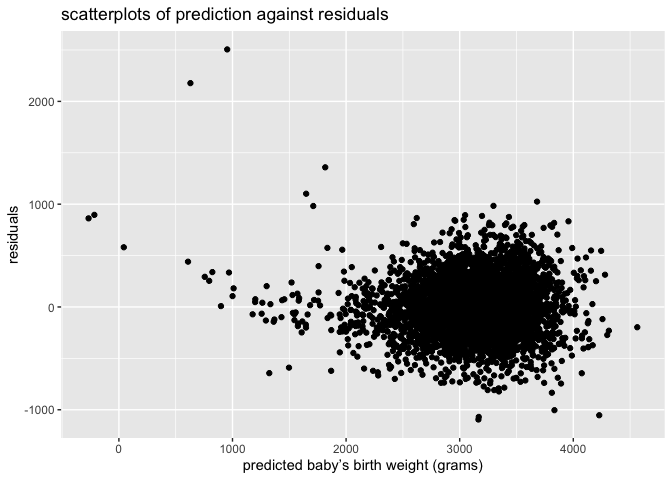
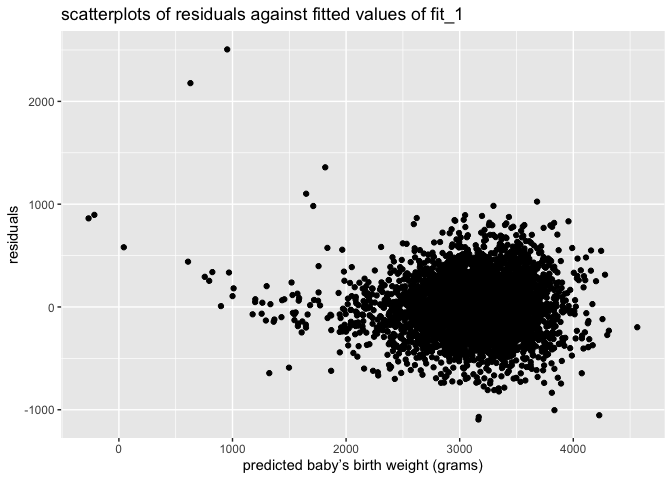
on part 3 of problem 1...

Changed region(s): [[0.25, 0.0, 0.6875, 0.0625]]

diff --git a/hw6.md b/hw6.md
@@ -52,10 +52,10 @@ indicates that it is significant to the baby’s birthweight.For example,
 menarche ,mother’s age at menarche, is eliminated since it has a large
 p-value with 2.261406e-01  
 Therefore, based on the above selection rule, I selected the following
-variables with very small varibales: baby’s head circumference , baby’s
-length, mother’s weight,babysex, family monthly income, gestational
-age,mom’s age, mother’s pre-pregnancy BMI, average number of cigarettes
-smoked per day during pregnancy
+variables with very small varibales as predictors: baby’s head
+circumference , baby’s length, mother’s weight,babysex, family monthly
+income, gestational age,mom’s age, mother’s pre-pregnancy BMI, average
+number of cigarettes smoked per day during pregnancy
 
 ``` r
 #Model fitting
@@ -81,7 +81,9 @@ fit %>%
 | ppbmi         |   -14.059 |       0 |
 | smoken        |    -2.821 |       0 |
 
-Let’s do the diagnostics!
+Let’s do the diagnostics and show a plot of model residuals against
+fitted values – use add_predictions and add_residuals in making this
+plot.
 
 ``` r
 birthweight_df %>% 
@@ -90,9 +92,44 @@ birthweight_df %>%
   ggplot(aes(x = pred, y = resid)) + geom_point()+
    labs(x ="predicted baby’s birth weight (grams)", 
         y= "residuals", 
-        title = "scatterplots of prediction against residuals ")
+        title = "scatterplots of residuals against fitted values of fit_1")
 ```
 
 ![](hw6_files/figure-gfm/unnamed-chunk-3-1.png)<!-- -->
 
-#Comparision to two other models
+#Comparision to two other models fit_2: One using length at birth and
+gestational age as predictors (main effects only) fit_3: One using head
+circumference, length, sex, and all interactions (including the
+three-way interaction) between these
+
+``` r
+#length at birth and gestational age as predictors
+fit_2 = lm(bwt ~  blength +gaweeks, data = birthweight_df)
+
+birthweight_df %>% 
+  modelr::add_residuals(fit_2) %>% 
+   modelr::add_predictions(fit_2) %>% 
+  ggplot(aes(x = pred, y = resid)) + geom_point()+
+   labs(x ="predicted baby’s birth weight (grams)", 
+        y= "residuals", 
+        title = "scatterplots of residuals against fitted values of fit_2")
+```
+
+![](hw6_files/figure-gfm/unnamed-chunk-4-1.png)<!-- -->
+
+``` r
+ # head circumference, length, sex, and all interactions ,noticed that the interaction between predictors can be caclulated by using multiply
+# two way interaction includes:babysex* bhead , babysex*blength, blenght*bhead 
+#three way interaction : babysex*bhead*blength
+fit_3 = lm(bwt ~ babysex + bhead + blength + babysex* bhead + babysex*blength + blength*bhead + babysex*bhead*blength, data = birthweight_df)
+
+birthweight_df %>% 
+  modelr::add_residuals(fit_3) %>% 
+   modelr::add_predictions(fit_3) %>% 
+  ggplot(aes(x = pred, y = resid)) + geom_point()+
+   labs(x ="predicted baby’s birth weight (grams)", 
+        y= "residuals", 
+        title = "scatterplots of residuals against fitted values of fit_3")
+```
+
+![](hw6_files/figure-gfm/unnamed-chunk-4-2.png)<!-- -->
